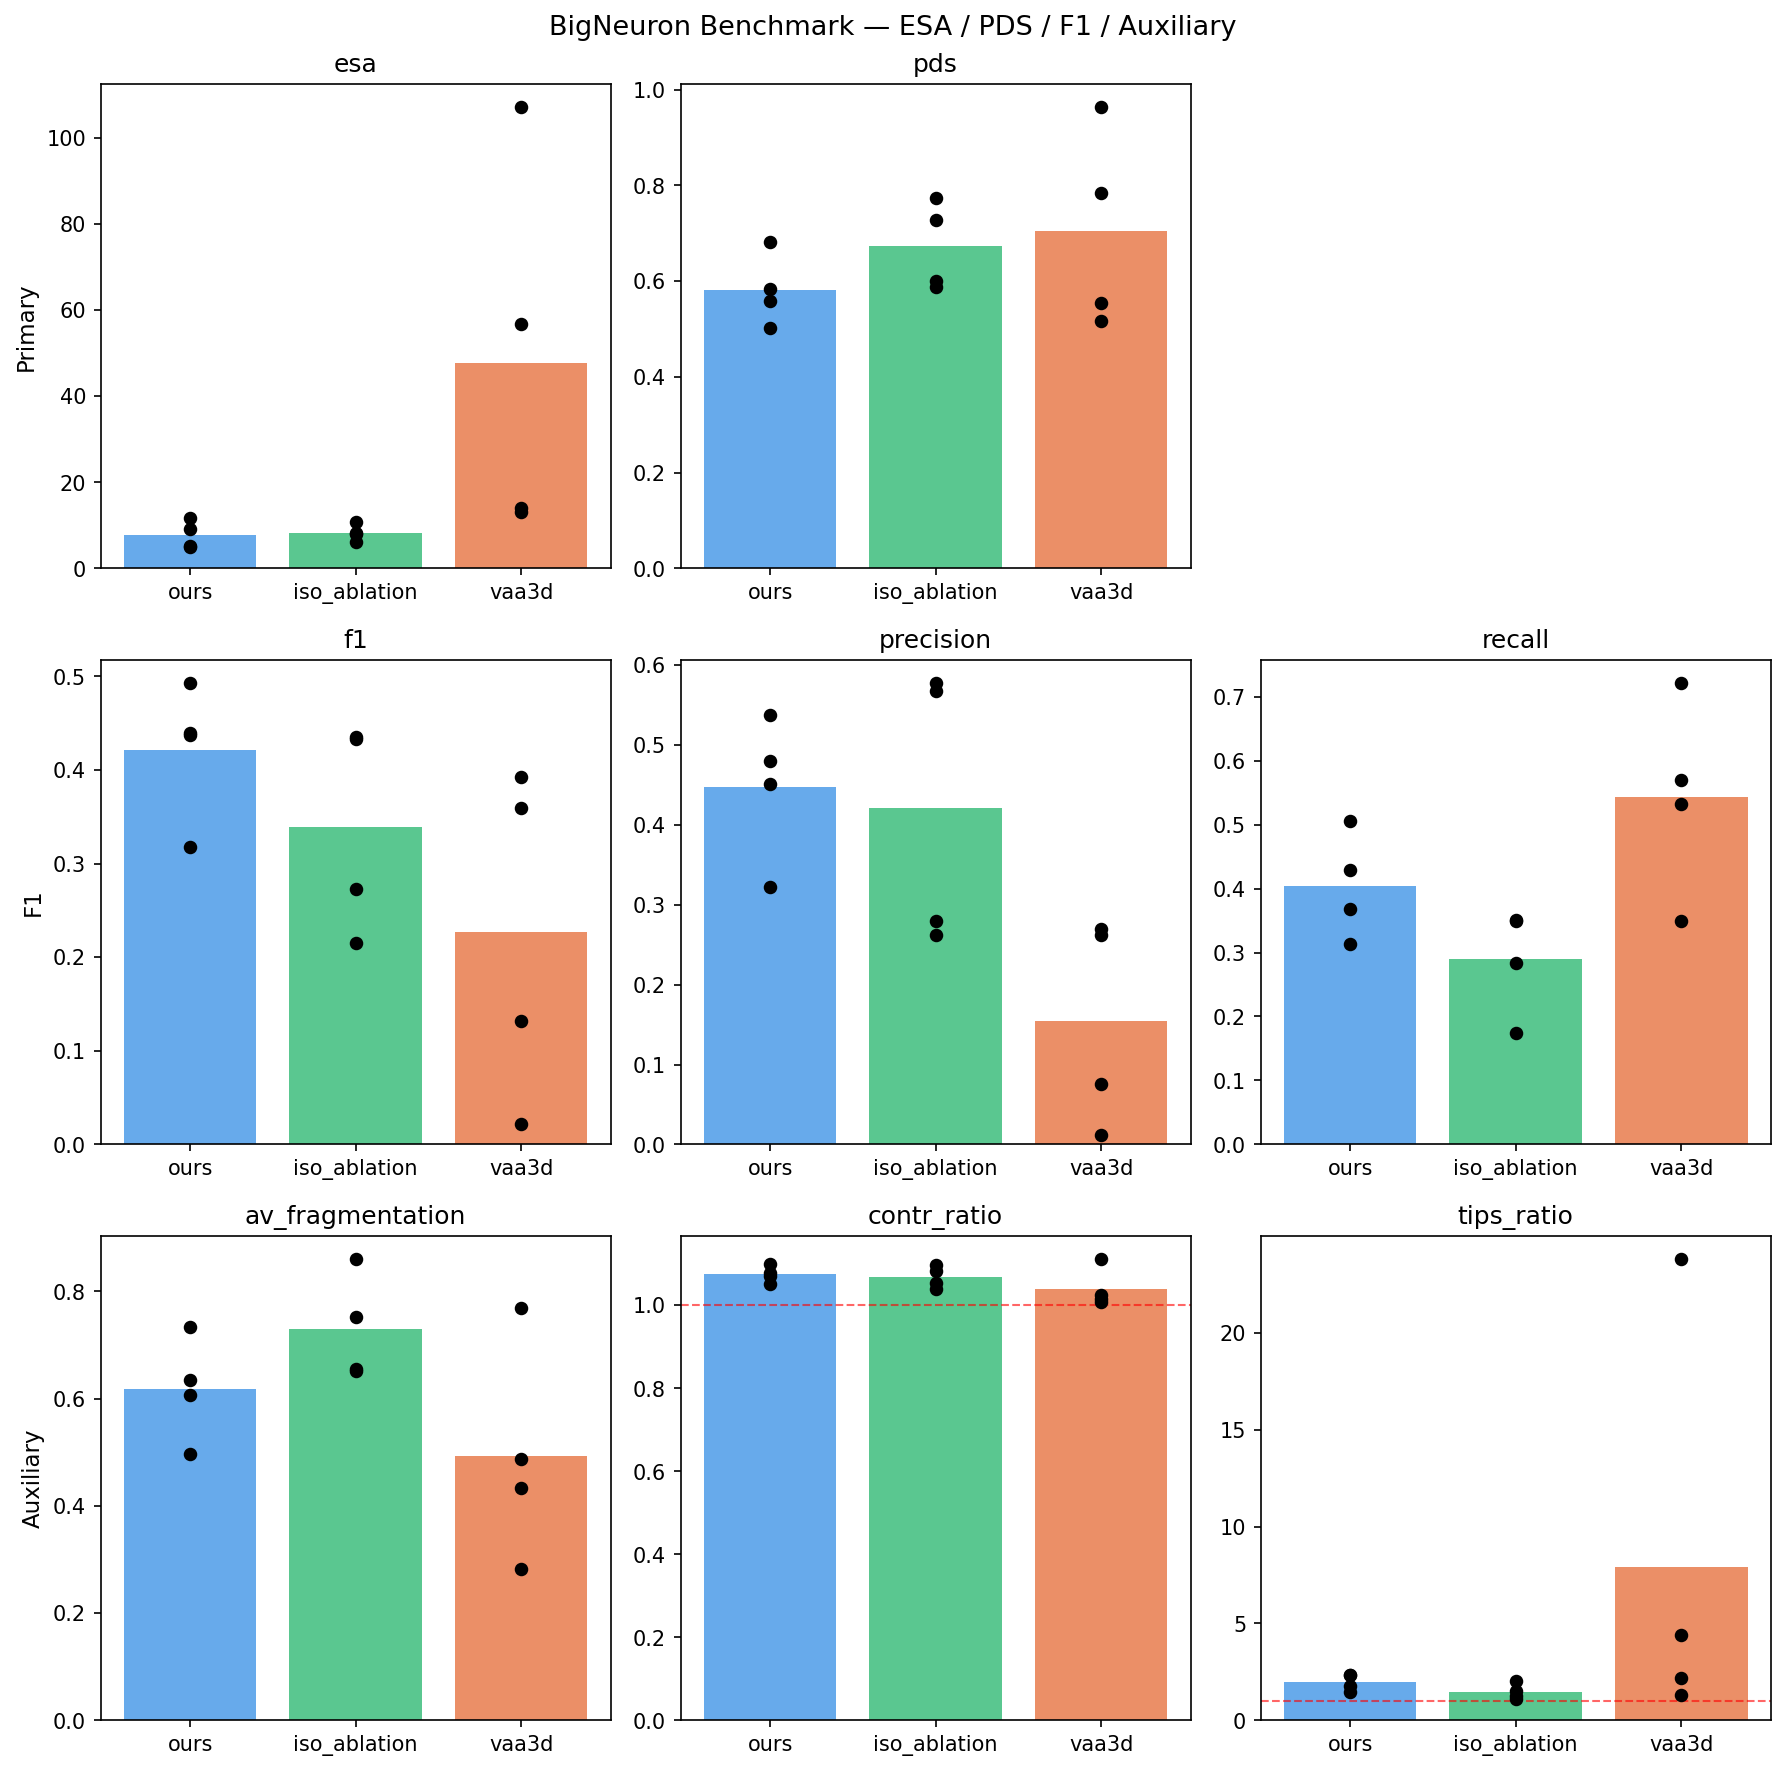
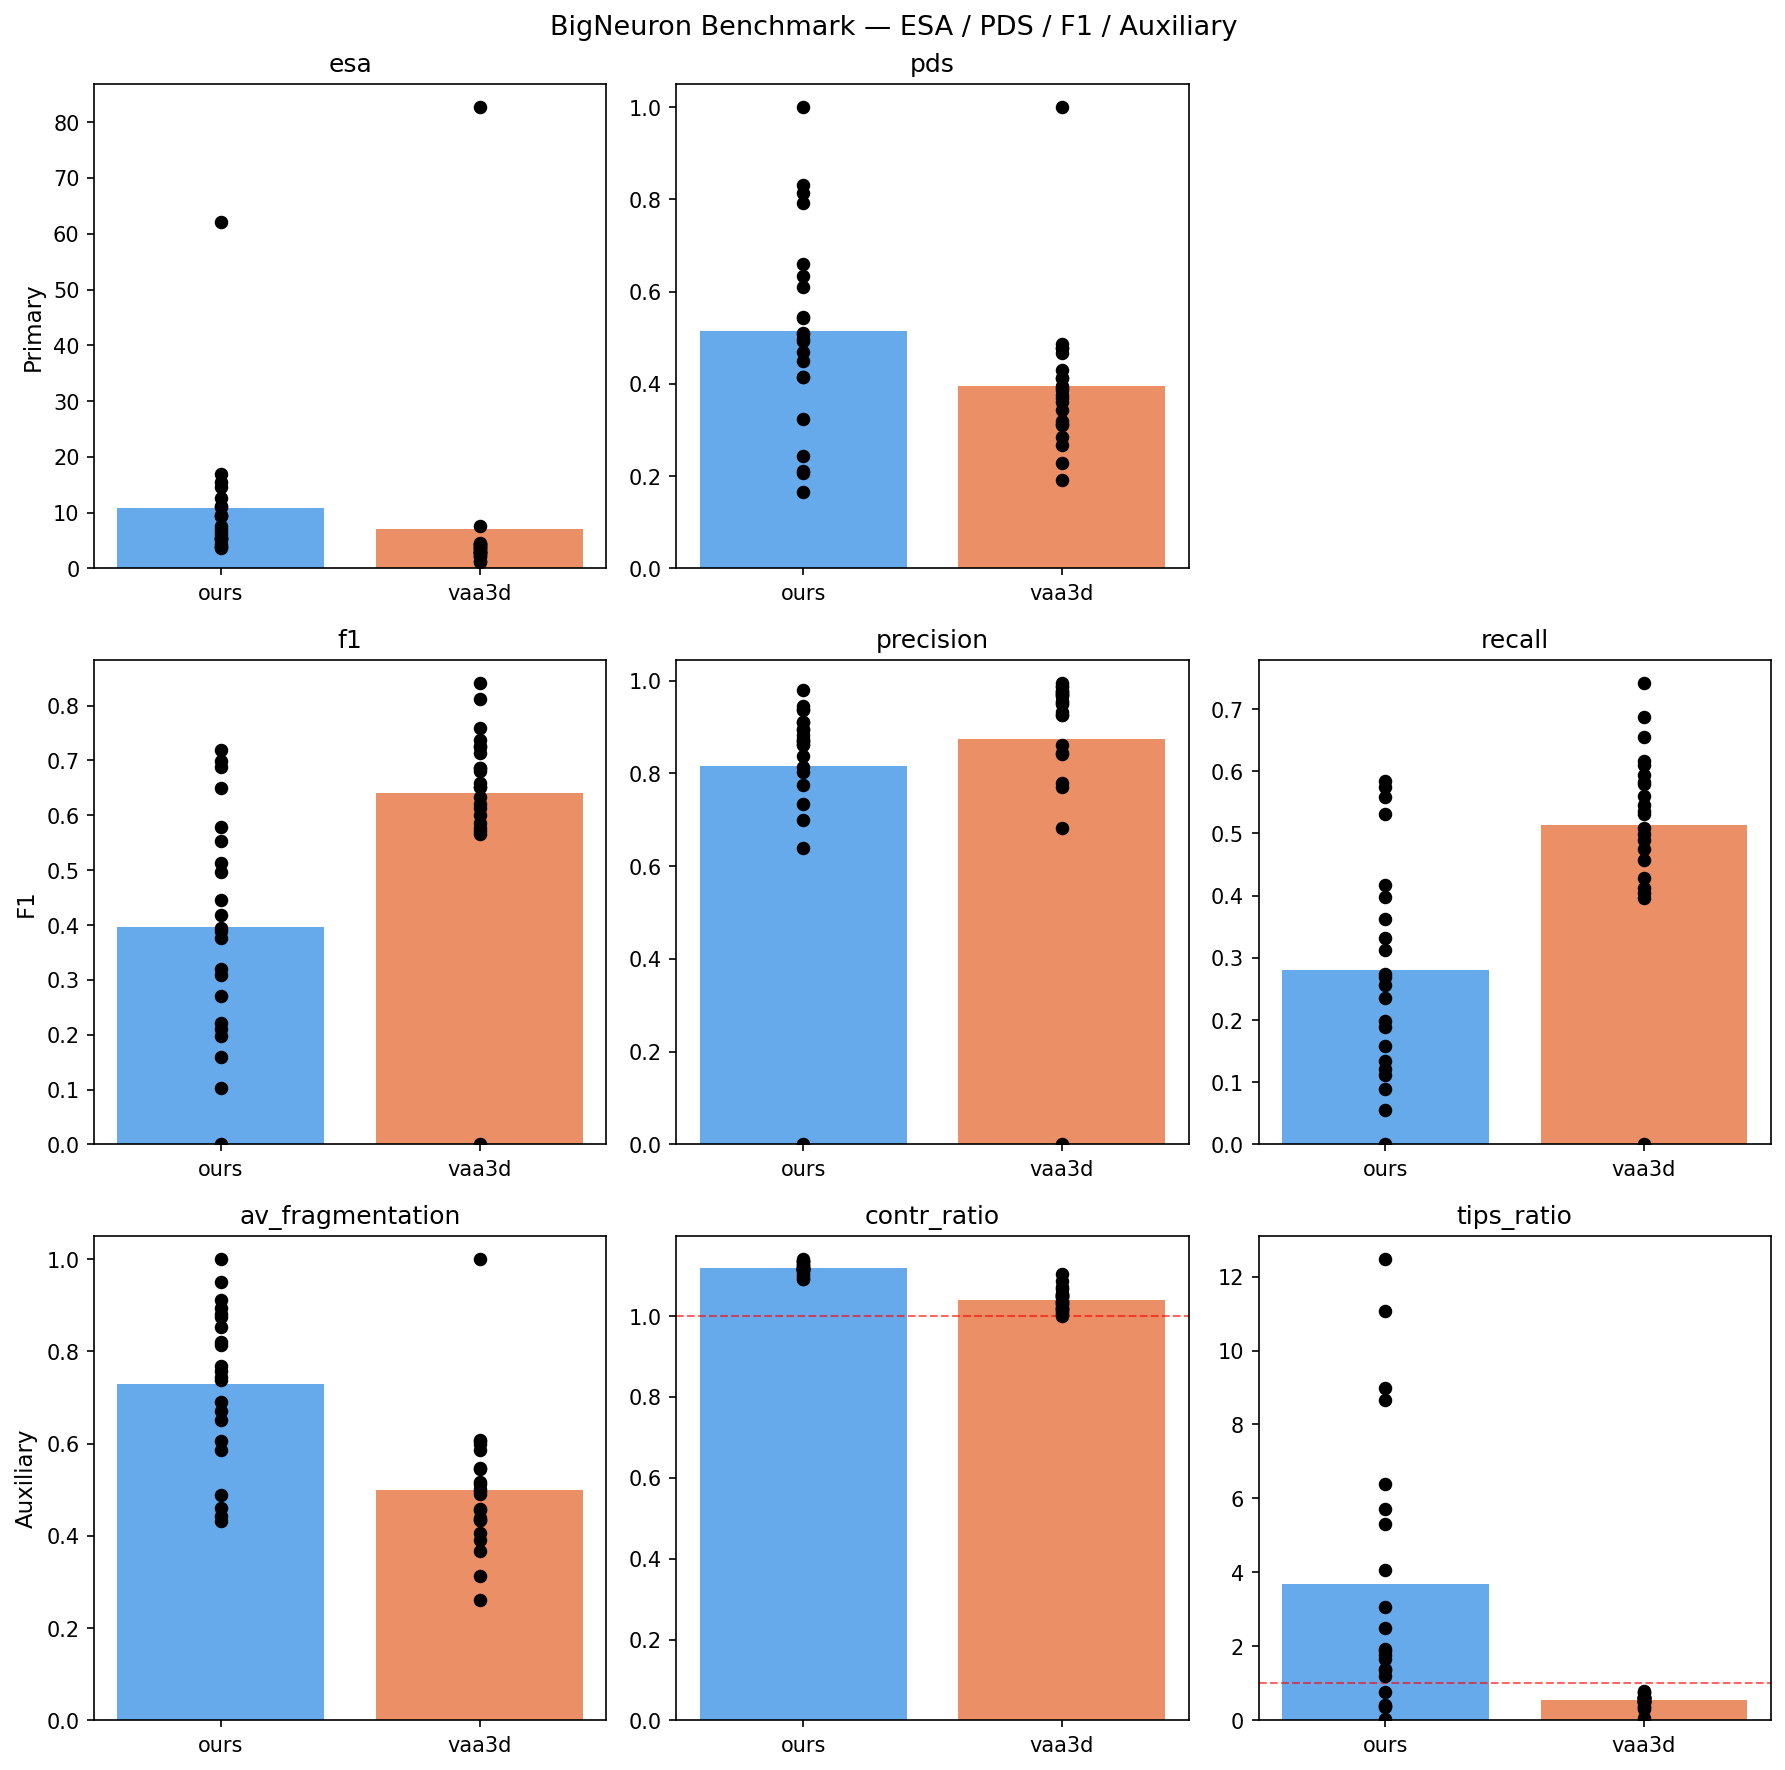
benchmark: 26개 마우스 샘플 확장 + clean-background adaptive mode
- step3_auto.py: dark_frac 기반 clean-background/conservative 자동 전환
  - clean-background (RGC): ALPHA=2.1, GAP=4µm, MIN_DIST=3µm 등
  - conservative (noisy in-vivo): 기존 파라미터 유지
- mouse_samples.txt: 26개 마우스 샘플 목록 (Cambridge 2개 + Korea 2개 + RGC_uw 22개)
- evaluate_new.ipynb: iso_ablation 포함, 전 메트릭 컬러 gradient
- optimization_compare.ipynb: 26개 샘플 기준 BigNeuron 비교
- MIP/overlap PNG 업데이트

RGC 22개 결과 (clean-background mode): F1=0.396, Recall=0.280
FAIL 0개 (이전 ALPHA=9.0: FAIL 4개, F1=0.167)

diff --git a/benchmark/methods/ours/step3_auto.py b/benchmark/methods/ours/step3_auto.py
@@ -146,18 +146,48 @@ def main():
     T_fg     = T_down[T_down > 0.02].ravel()
     otsu_val = float(threshold_otsu(T_fg))
 
-    # T saturation 기반 seed 간격 자동 결정
-    # Z PSF saturated 이미지(neuron2/4): T_down >Otsu 비율 높음 → 20µm 유지
-    # 저노이즈 이미지(s06b/s10mm): >Otsu 비율 낮음 → 15µm로 더 촘촘하게
-    sat_frac = float((T_down > otsu_val).mean())
-    MIN_DIST_UM_actual = MIN_DIST_UM if sat_frac > 0.05 else 15.0
+    # ── Background type detection (clean-background adaptive mode) ──
+    # dark_frac: clean background(RGC 등) ↑, noisy in-vivo ↓
+    dark_frac = float((T_down < 0.05).mean())
+    if dark_frac > 0.95:
+        # clean-background: clean background, 얇은 가지, intensity dip 多
+        _CTR = 8;      _GAP = 4.0; _SEG = 0.06; _TIP = 0.70
+        _DST = 3.0;    _PLN = 3.0; _ZPT = 0.99; _PRM = 20.0
+        _alp_min = 2.0
+        print(f'[Mode] clean-background  (dark_frac={dark_frac:.3f})')
+    else:
+        # conservative: noisy in-vivo 2-photon
+        _CTR = COST_TARGET_RATIO; _GAP = GAP_LEN_UM
+        _SEG = MIN_SEG_T_RATIO;   _TIP = MIN_T_TIP_RATIO
+        _DST = None;               _PLN = MIN_PATH_LEN_UM_FLOOR
+        _ZPT = Z_PATH_THR;        _PRM = MIN_PRIMARY_REACH_UM
+        _alp_min = 4.0
+        print(f'[Mode] conservative   (dark_frac={dark_frac:.3f})')
 
-    MIN_T_TIP    = round(float(np.clip(otsu_val * MIN_T_TIP_RATIO,  0.10, 0.55)), 2)
-    ALPHA        = round(float(np.clip(np.log(COST_TARGET_RATIO), 4.0, 12.0)), 1)
+    # clean-background 파라미터 덮어쓰기
+    _GAP_EFF = _GAP
+    _ZPT_EFF = _ZPT
+    _PRM_EFF = _PRM
+    _PLN_EFF = _PLN
+    _SEG_EFF = _SEG
+    _TIP_EFF = _TIP
+
+    # T saturation 기반 seed 간격
+    sat_frac = float((T_down > otsu_val).mean())
+    if _DST is not None:
+        MIN_DIST_UM_actual = _DST
+    else:
+        MIN_DIST_UM_actual = MIN_DIST_UM if sat_frac > 0.05 else 15.0
+
+    MIN_T_TIP    = round(float(np.clip(otsu_val * _TIP_EFF,  0.05, 0.55)), 2)
+    ALPHA        = round(float(np.clip(np.log(_CTR), _alp_min, 12.0)), 1)
     MIN_DIST_VOX = int(round(MIN_DIST_UM_actual / voxel_down))
-    MIN_MEAN_T   = round(float(np.clip(otsu_val * MIN_MEAN_T_RATIO, 0.08, 0.40)), 2)
-    MIN_SEG_T    = round(float(np.clip(otsu_val * MIN_SEG_T_RATIO,  0.02, 0.12)), 3)
-    MIN_PATH_LEN_UM = round(float(max(MIN_PATH_LEN_UM_FLOOR, soma_r_um * 0.5)), 1)
+    MIN_MEAN_T   = round(float(np.clip(otsu_val * MIN_MEAN_T_RATIO,  0.08, 0.40)), 2)
+    MIN_SEG_T    = round(float(np.clip(otsu_val * _SEG_EFF,          0.01, 0.12)), 3)
+    MIN_PATH_LEN_UM = round(float(max(_PLN_EFF, soma_r_um * 0.5)), 1)
+    GAP_LEN_UM   = _GAP_EFF
+    Z_PATH_THR   = _ZPT_EFF
+    MIN_PRIMARY_REACH_UM = _PRM_EFF
     MERGE_DIST_UM   = round(float(max(4.0, soma_r_um * 0.3)), 1)
 
     print('=' * 56)